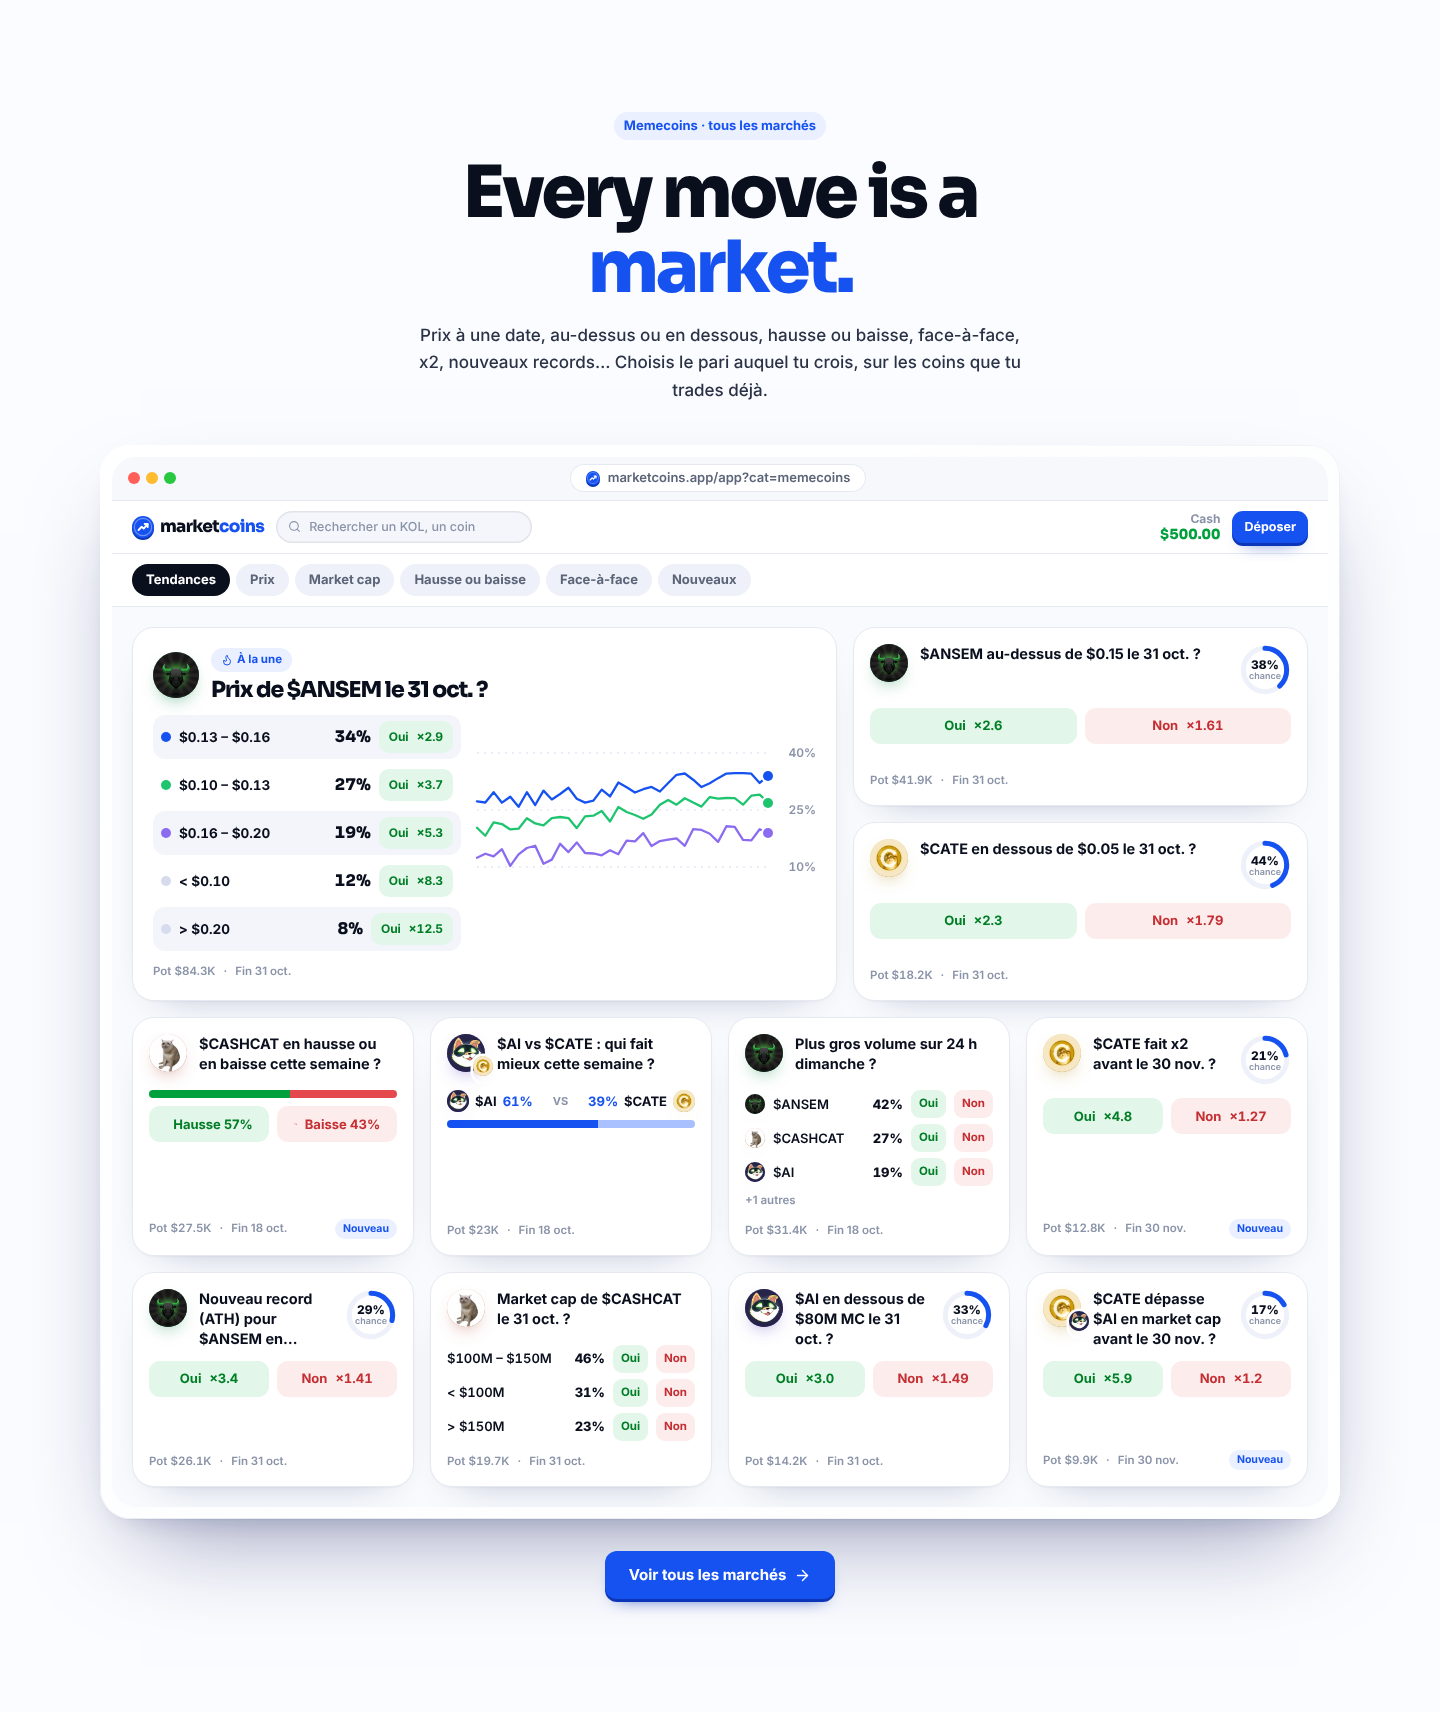
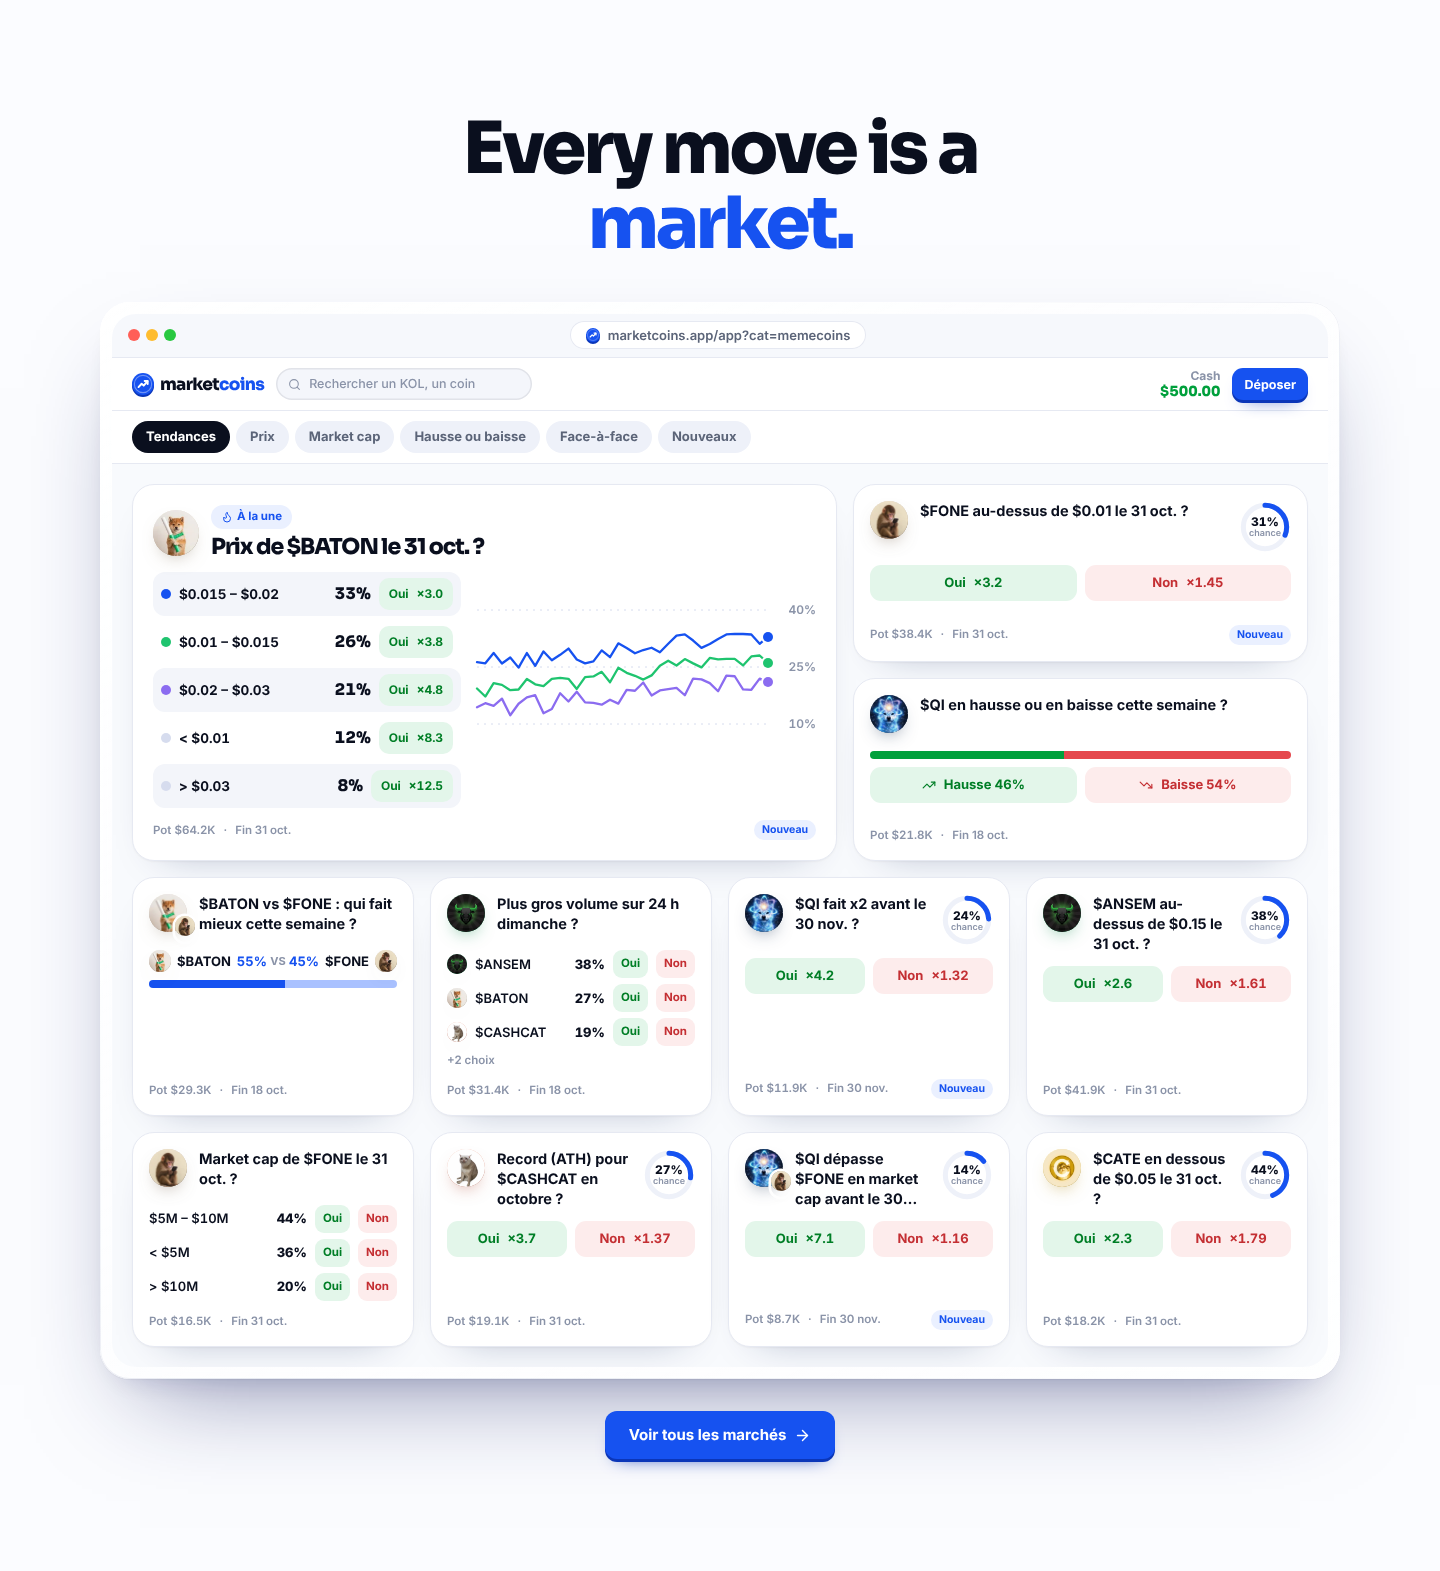
Landing : 3 nouveaux coins (BATON, FONE, QI) et paris plus variés
Vrais logos repris des métadonnées on-chain (Jupiter), dans public/coins.
La une et les deux cartes à côté portent sur les nouveaux coins ; la grille
mélange les 7 coins (prix, hausse/baisse, face-à-face, x2, ATH, flip…).

Claude-Session: https://claude.ai/code/session_011hp6wFAUeqLMvouzqSSJvW

diff --git a/src/data/coin-bets.ts b/src/data/coin-bets.ts
@@ -1,11 +1,36 @@
+import type { CoinOutcome } from "./coins";
+
 /**
  * Les paris memecoins montrés sur la landing (données mock) : prix à une date, au-dessus / en dessous,
  * hausse ou baisse, face-à-face, x2, record… Toujours sur les 4 coins de la course (vrais logos).
  * Même règle partout : pot commun, 0 frais. `prob` = part du pot misée sur ce résultat.
  *
- * Prix de référence (10 oct. 2026, DexScreener) : tokens pump.fun à 1 Md d'offre, donc
- * $ANSEM ≈ 0,137 $ (136,6 M$) et $CATE ≈ 0,054 $ (54,2 M$). CASHCAT et AI se lisent en market cap.
+ * Prix de référence (10-12 oct. 2026) : $ANSEM ≈ 0,137 $ (136,6 M$), $CATE ≈ 0,054 $ (54,2 M$),
+ * $BATON ≈ 0,0166 $ (16,6 M$), $FONE ≈ 0,0056 $ (5,5 M$), $QI ≈ 0,0018 $ (1,7 M$).
+ * CASHCAT et AI se lisent en market cap.
  */
+
+/**
+ * Coins en plus de ceux de la course, montrés seulement dans cet écran. Vrais logos (public/coins),
+ * repris des métadonnées on-chain via Jupiter le 12 oct. 2026.
+ */
+export const EXTRA_COINS: CoinOutcome[] = [
+  {
+    id: "baton", name: "baton", ticker: "BATON", mark: "B", logo: "/coins/baton.webp",
+    mint: "Hg5Ja55T5wESq4vyFoiVCMeHXtGyVA69X2UHq8hgpump", tint: ["#f3ece2", "#d3c8b7", "#9c8f7a"],
+    prob: 0, pool: 0, change24h: 15.8, mcap: 16_560_000, series: [],
+  },
+  {
+    id: "fone", name: "apeonfone", ticker: "FONE", mark: "F", logo: "/coins/fone.webp",
+    mint: "CTPoyCwkjMvoJwU4xvZZqoD8tiYk6yDchySiN5gGpump", tint: ["#e2d3c2", "#b39f88", "#7a6650"],
+    prob: 0, pool: 0, change24h: 18.6, mcap: 5_510_000, series: [],
+  },
+  {
+    id: "qi", name: "Quantum Inu", ticker: "QI", mark: "QI", logo: "/coins/qi.webp",
+    mint: "8TiMkgvsrat9tM2esko8zVTt99LZLpefUM4SnZaziXaQ", tint: ["#8fb2e6", "#43638a", "#1d3352"],
+    prob: 0, pool: 0, change24h: -6.9, mcap: 1_700_000, series: [],
+  },
+];
 
 export type BetKind = "range" | "binary" | "updown" | "versus" | "multi";
 
@@ -63,55 +88,58 @@ const yesNo = (p: number): BetChoice[] => [
   { label: "", word: "no", prob: 1 - p },
 ];
 
-/** Le marché à la une : le prix de $ANSEM au 31 octobre, en tranches. */
+/** Le marché à la une : le prix de $BATON au 31 octobre, en tranches. */
 export const FEATURED_BET: CoinBet = {
-  id: "ansem-price-oct31",
+  id: "baton-price-oct31",
   kind: "range",
   title: "price",
-  params: { ticker: "ANSEM" },
-  coin: "ansem",
+  params: { ticker: "BATON" },
+  coin: "baton",
   closesAt: OCT31,
-  pool: 84_320,
+  pool: 64_180,
+  isNew: true,
   choices: [
-    { label: "$0.13 – $0.16", prob: 0.34 },
-    { label: "$0.10 – $0.13", prob: 0.27 },
-    { label: "$0.16 – $0.20", prob: 0.19 },
-    { label: "< $0.10", prob: 0.12 },
-    { label: "> $0.20", prob: 0.08 },
+    { label: "$0.015 – $0.02", prob: 0.33 },
+    { label: "$0.01 – $0.015", prob: 0.26 },
+    { label: "$0.02 – $0.03", prob: 0.21 },
+    { label: "< $0.01", prob: 0.12 },
+    { label: "> $0.03", prob: 0.08 },
   ],
 };
 FEATURED_BET.series = FEATURED_BET.choices.slice(0, 3).map((c, i) => walk(c.prob, 101 + i * 7));
 
+/** Les deux cartes à côté de la une, puis la grille : les 7 coins mélangés. */
 export const COIN_BETS: CoinBet[] = [
-  { id: "ansem-above-015", kind: "binary", title: "above", params: { ticker: "ANSEM", price: "$0.15" }, coin: "ansem", closesAt: OCT31, pool: 41_870, choices: yesNo(0.38) },
-  { id: "cate-below-005", kind: "binary", title: "below", params: { ticker: "CATE", price: "$0.05" }, coin: "cate", closesAt: OCT31, pool: 18_240, choices: yesNo(0.44) },
+  { id: "fone-above-001", kind: "binary", title: "above", params: { ticker: "FONE", price: "$0.01" }, coin: "fone", closesAt: OCT31, pool: 38_420, isNew: true, choices: yesNo(0.31) },
   {
-    id: "cashcat-updown-week", kind: "updown", title: "upDown", params: { ticker: "CASHCAT" }, coin: "cashcat", closesAt: SUNDAY, pool: 27_510, isNew: true,
-    choices: [{ label: "", word: "up", prob: 0.57 }, { label: "", word: "down", prob: 0.43 }],
+    id: "qi-updown-week", kind: "updown", title: "upDown", params: { ticker: "QI" }, coin: "qi", closesAt: SUNDAY, pool: 21_760,
+    choices: [{ label: "", word: "up", prob: 0.46 }, { label: "", word: "down", prob: 0.54 }],
   },
   {
-    id: "ai-vs-cate-week", kind: "versus", title: "versus", params: { a: "AI", b: "CATE" }, coin: "ai", coin2: "cate", closesAt: SUNDAY, pool: 22_960,
-    choices: [{ label: "$AI", coin: "ai", prob: 0.61 }, { label: "$CATE", coin: "cate", prob: 0.39 }],
+    id: "baton-vs-fone-week", kind: "versus", title: "versus", params: { a: "BATON", b: "FONE" }, coin: "baton", coin2: "fone", closesAt: SUNDAY, pool: 29_310,
+    choices: [{ label: "$BATON", coin: "baton", prob: 0.55 }, { label: "$FONE", coin: "fone", prob: 0.45 }],
   },
   {
     id: "volume-sunday", kind: "multi", title: "volume", params: {}, coin: "ansem", closesAt: SUNDAY, pool: 31_400,
     choices: [
-      { label: "$ANSEM", coin: "ansem", prob: 0.42 },
-      { label: "$CASHCAT", coin: "cashcat", prob: 0.27 },
-      { label: "$AI", coin: "ai", prob: 0.19 },
-      { label: "$CATE", coin: "cate", prob: 0.12 },
+      { label: "$ANSEM", coin: "ansem", prob: 0.38 },
+      { label: "$BATON", coin: "baton", prob: 0.27 },
+      { label: "$CASHCAT", coin: "cashcat", prob: 0.19 },
+      { label: "$FONE", coin: "fone", prob: 0.1 },
+      { label: "$AI", coin: "ai", prob: 0.06 },
     ],
   },
-  { id: "cate-2x-nov30", kind: "binary", title: "double", params: { ticker: "CATE" }, coin: "cate", closesAt: NOV30, pool: 12_830, isNew: true, choices: yesNo(0.21) },
-  { id: "ansem-ath-oct", kind: "binary", title: "ath", params: { ticker: "ANSEM" }, coin: "ansem", closesAt: OCT31, pool: 26_090, choices: yesNo(0.29) },
+  { id: "qi-2x-nov30", kind: "binary", title: "double", params: { ticker: "QI" }, coin: "qi", closesAt: NOV30, pool: 11_940, isNew: true, choices: yesNo(0.24) },
+  { id: "ansem-above-015", kind: "binary", title: "above", params: { ticker: "ANSEM", price: "$0.15" }, coin: "ansem", closesAt: OCT31, pool: 41_870, choices: yesNo(0.38) },
   {
-    id: "cashcat-mcap-oct31", kind: "range", title: "mcapOn", params: { ticker: "CASHCAT" }, coin: "cashcat", closesAt: OCT31, pool: 19_660,
+    id: "fone-mcap-oct31", kind: "range", title: "mcapOn", params: { ticker: "FONE" }, coin: "fone", closesAt: OCT31, pool: 16_520,
     choices: [
-      { label: "$100M – $150M", prob: 0.46 },
-      { label: "< $100M", prob: 0.31 },
-      { label: "> $150M", prob: 0.23 },
+      { label: "$5M – $10M", prob: 0.44 },
+      { label: "< $5M", prob: 0.36 },
+      { label: "> $10M", prob: 0.2 },
     ],
   },
-  { id: "ai-below-80m", kind: "binary", title: "below", params: { ticker: "AI", price: "$80M MC" }, coin: "ai", closesAt: OCT31, pool: 14_150, choices: yesNo(0.33) },
-  { id: "cate-flips-ai", kind: "binary", title: "flip", params: { a: "CATE", b: "AI" }, coin: "cate", coin2: "ai", closesAt: NOV30, pool: 9_870, isNew: true, choices: yesNo(0.17) },
+  { id: "cashcat-ath-oct", kind: "binary", title: "ath", params: { ticker: "CASHCAT" }, coin: "cashcat", closesAt: OCT31, pool: 19_090, choices: yesNo(0.27) },
+  { id: "qi-flips-fone", kind: "binary", title: "flip", params: { a: "QI", b: "FONE" }, coin: "qi", coin2: "fone", closesAt: NOV30, pool: 8_730, isNew: true, choices: yesNo(0.14) },
+  { id: "cate-below-005", kind: "binary", title: "below", params: { ticker: "CATE", price: "$0.05" }, coin: "cate", closesAt: OCT31, pool: 18_240, choices: yesNo(0.44) },
 ];

diff --git a/src/components/landing/MarketsScreen.tsx b/src/components/landing/MarketsScreen.tsx
@@ -3,7 +3,7 @@
 import { useEffect, useRef, useState } from "react";
 import { ArrowRight, Flame, TrendingDown, TrendingUp } from "lucide-react";
 import { COIN_MARKETS, type CoinOutcome } from "@/data/coins";
-import { COIN_BETS, FEATURED_BET, type BetChoice, type CoinBet } from "@/data/coin-bets";
+import { COIN_BETS, EXTRA_COINS, FEATURED_BET, type BetChoice, type CoinBet } from "@/data/coin-bets";
 import { OutcomeCoin } from "../Coin";
 import { LineChart } from "../LineChart";
 import { fmtDate, fmtOdds, pct, usd } from "@/lib/format";
@@ -12,7 +12,7 @@ import { useI18n } from "@/i18n/client";
 import { AppLink } from "./AppLink";
 import { BrowserBar, MiniAppNav } from "./KolScreen";
 
-const COINS = new Map(COIN_MARKETS[0].outcomes.filter((o) => o.ticker).map((o) => [o.id, o]));
+const COINS = new Map([...COIN_MARKETS[0].outcomes.filter((o) => o.ticker), ...EXTRA_COINS].map((o) => [o.id, o]));
 const coin = (id?: string) => (id ? COINS.get(id) : undefined) as CoinOutcome | undefined;
 const LINES = ["#1652f0", "#1fc46f", "#8b6cf0"];
 
